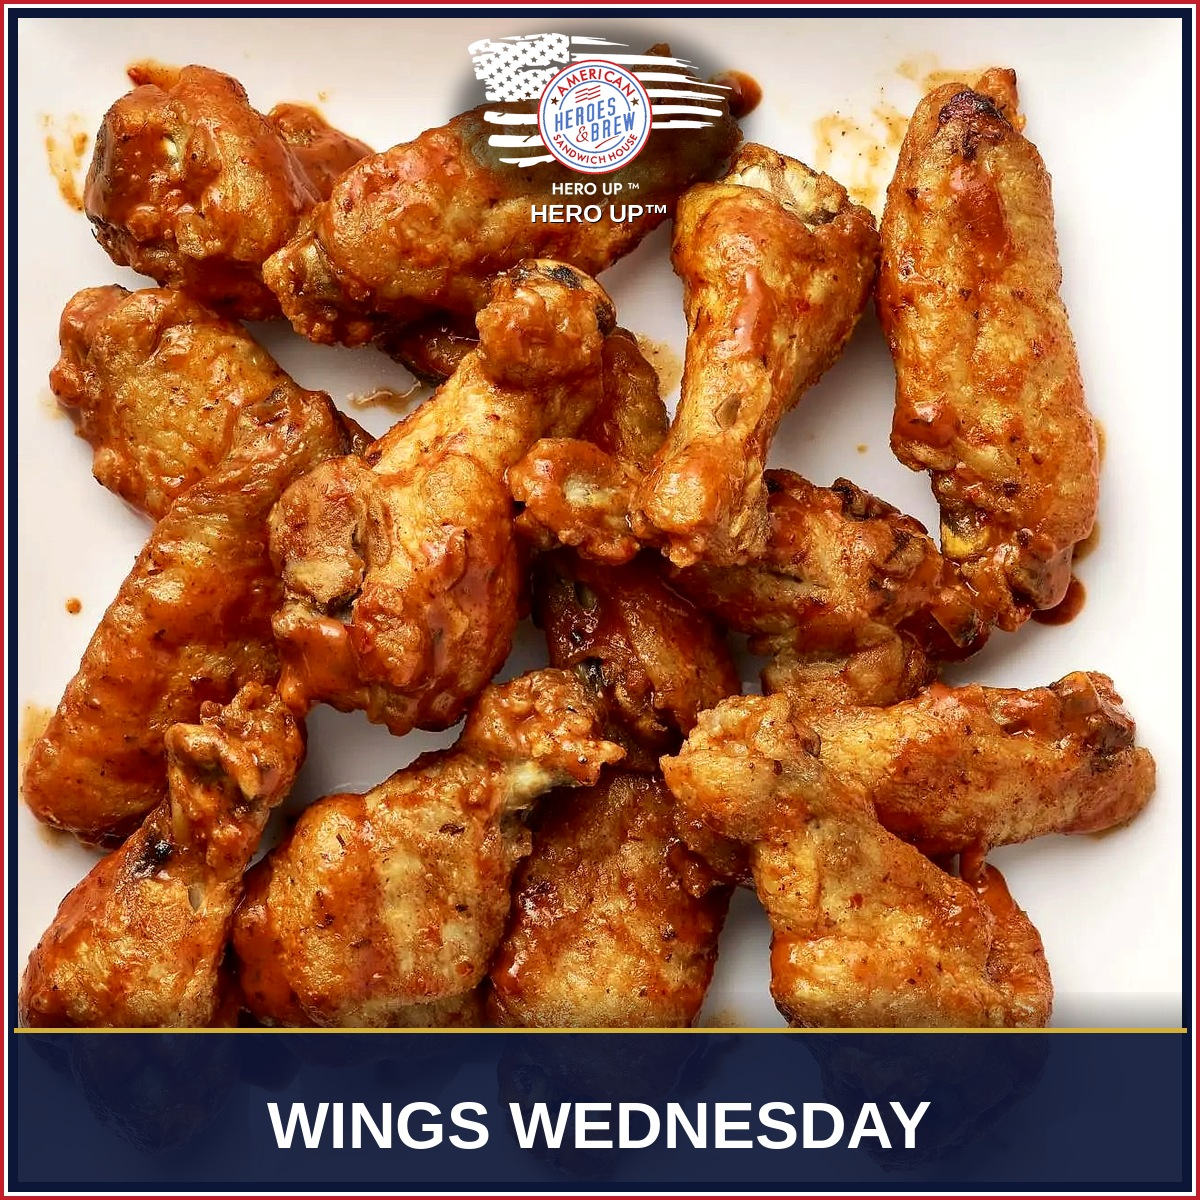
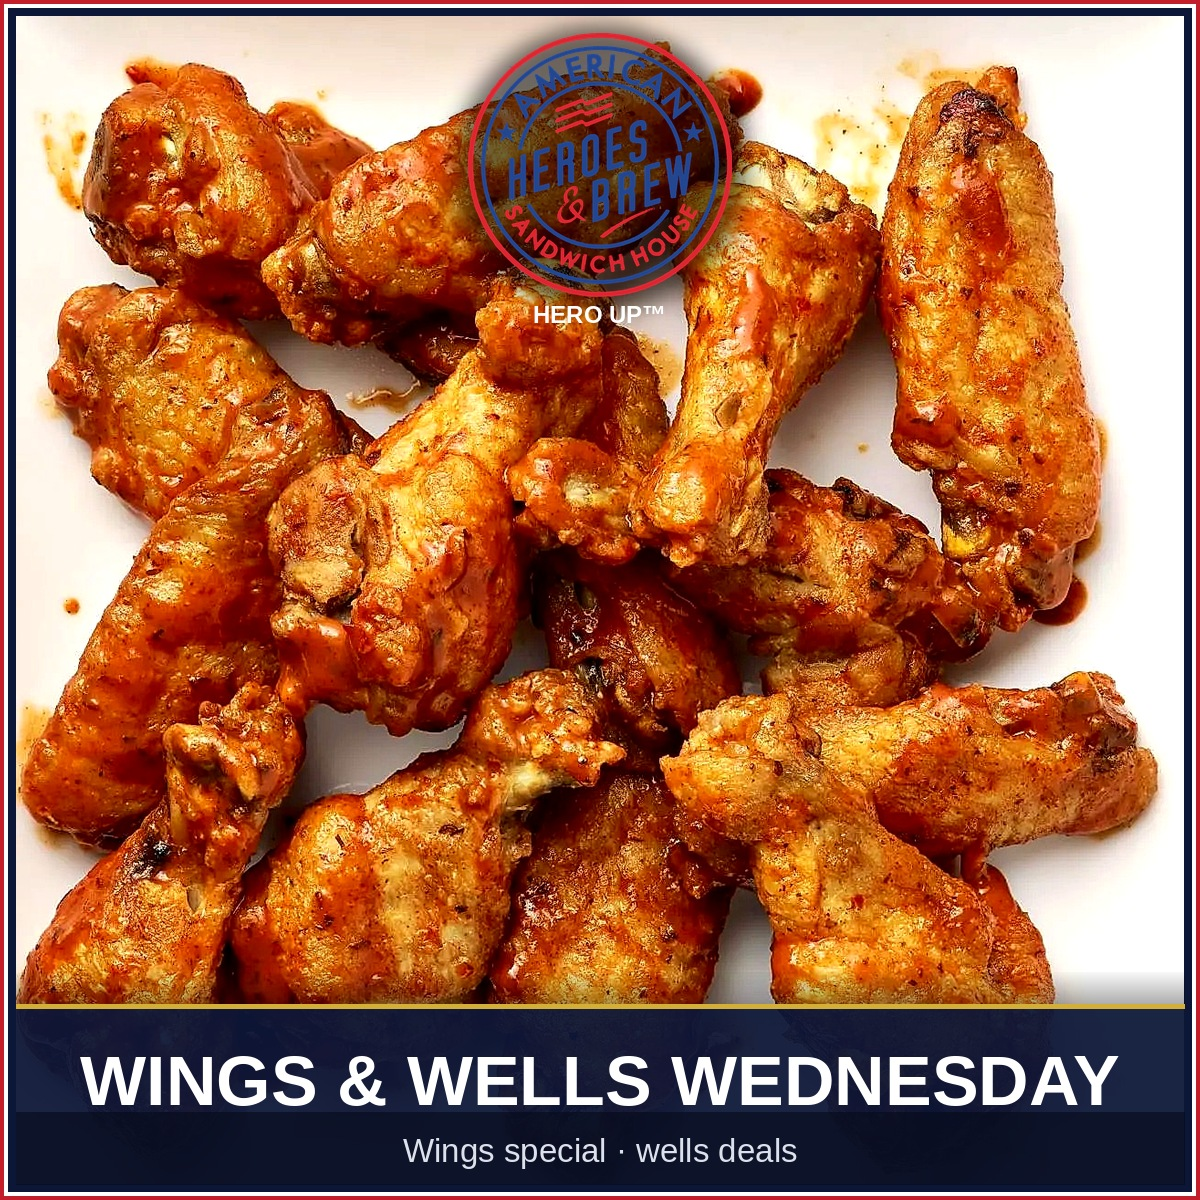
Replace daily-lineup stills with v2 menu-library photos.
Overwrite the five GBP plates plus shipped Tue/Thu feed and story crops. Mon/Wed/Fri feed and story stay v2 GBP copies until dedicated crops exist. Wiring is unchanged: Google *-gbp.jpg, Feed *-feed.jpg, Story *-story.jpg.

diff --git a/Heroes/heroes-brew/src/lib/special-posters.test.ts b/Heroes/heroes-brew/src/lib/special-posters.test.ts
@@ -47,18 +47,12 @@ describe('SPECIAL_LINEUP', () => {
     }
   });
 
-  it('commits every GBP still (and any feed/story that has shipped)', () => {
-    for (const src of Object.values(EXPECTED_GBP)) {
-      expect(existsSync(resolve(PUBLIC, src.replace(/^\//, ''))), src).toBe(true);
-    }
+  it('commits all 15 lineup JPEGs (5 days × gbp/feed/story)', () => {
     for (const row of Object.values(SPECIAL_LINEUP)) {
-      const feed = resolve(PUBLIC, row.feed.replace(/^\//, ''));
-      const story = resolve(PUBLIC, row.story.replace(/^\//, ''));
-      if (existsSync(feed)) expect(existsSync(feed)).toBe(true);
-      if (existsSync(story)) expect(existsSync(story)).toBe(true);
+      for (const src of [row.gbp, row.feed, row.story]) {
+        expect(existsSync(resolve(PUBLIC, src.replace(/^\//, ''))), src).toBe(true);
+      }
     }
-    expect(existsSync(resolve(PUBLIC, 'promos/daily-lineup/burgers-beer-thursday-feed.jpg'))).toBe(true);
-    expect(existsSync(resolve(PUBLIC, 'promos/daily-lineup/burgers-beer-thursday-story.jpg'))).toBe(true);
   });
 });
 

diff --git a/Heroes/heroes-brew/src/lib/special-posters.ts b/Heroes/heroes-brew/src/lib/special-posters.ts
@@ -16,8 +16,8 @@
  * - SPECIAL_GOOGLE_POSTERS, specialGooglePoster, specialFeedPoster, specialStoryPoster
  *
  * IMPLEMENTATION STATUS:
- * - ✅ All five GBP stills
- * - ✅ Thursday feed + story; other feed/story fall back to that day's GBP until shipped
+ * - ✅ v2 menu-library stills: all 5 GBP; Thu+Tue feed/story shipped
+ * - ✅ Mon/Wed/Fri feed+story are v2 GBP copies until dedicated crops land
  *
  * RELATED FILES:
  * - scripts/sheet-auto-publisher.gs
